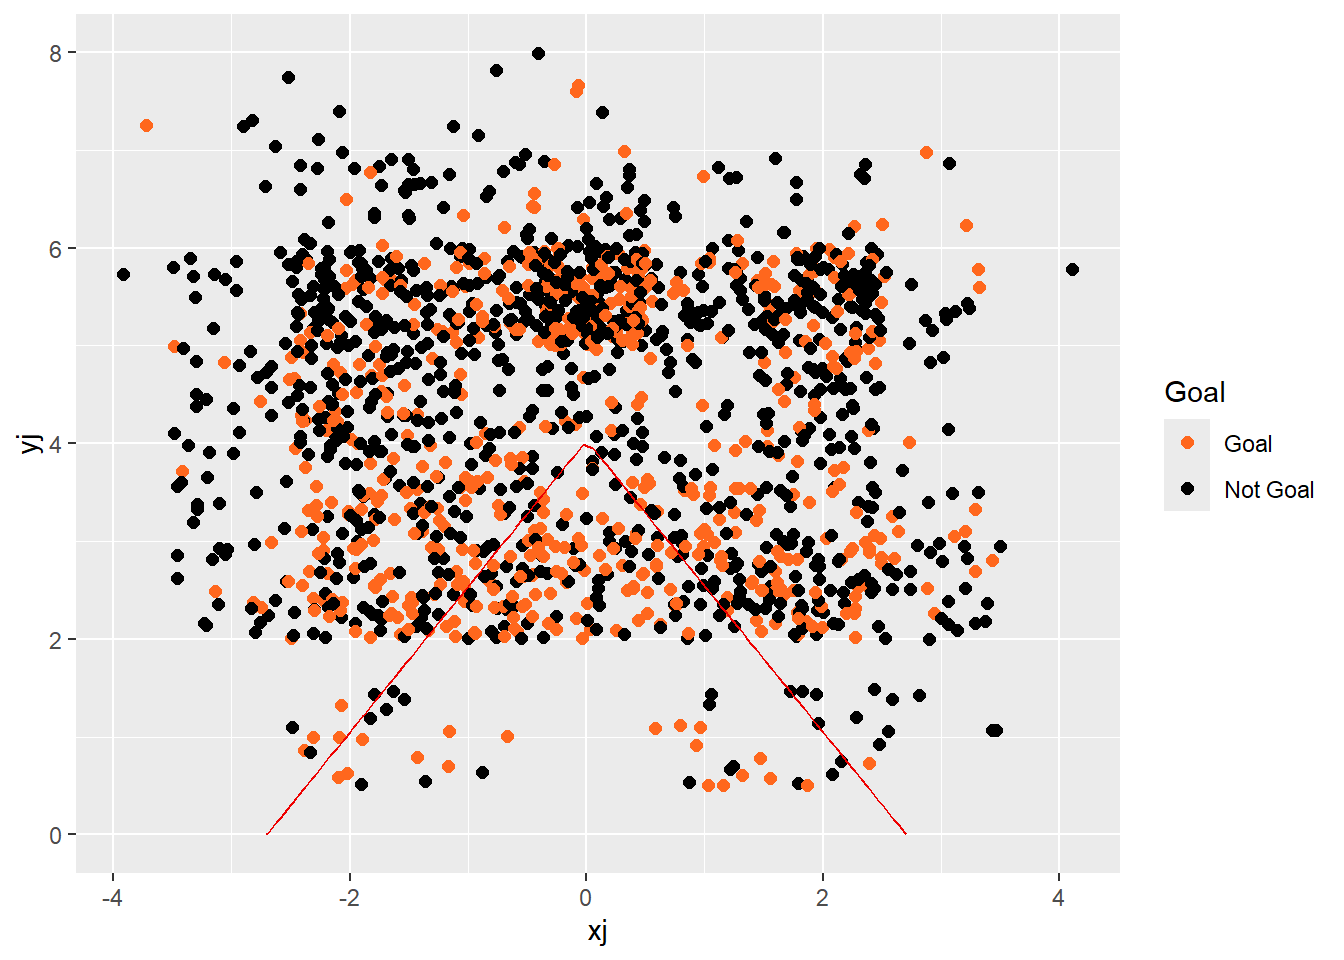
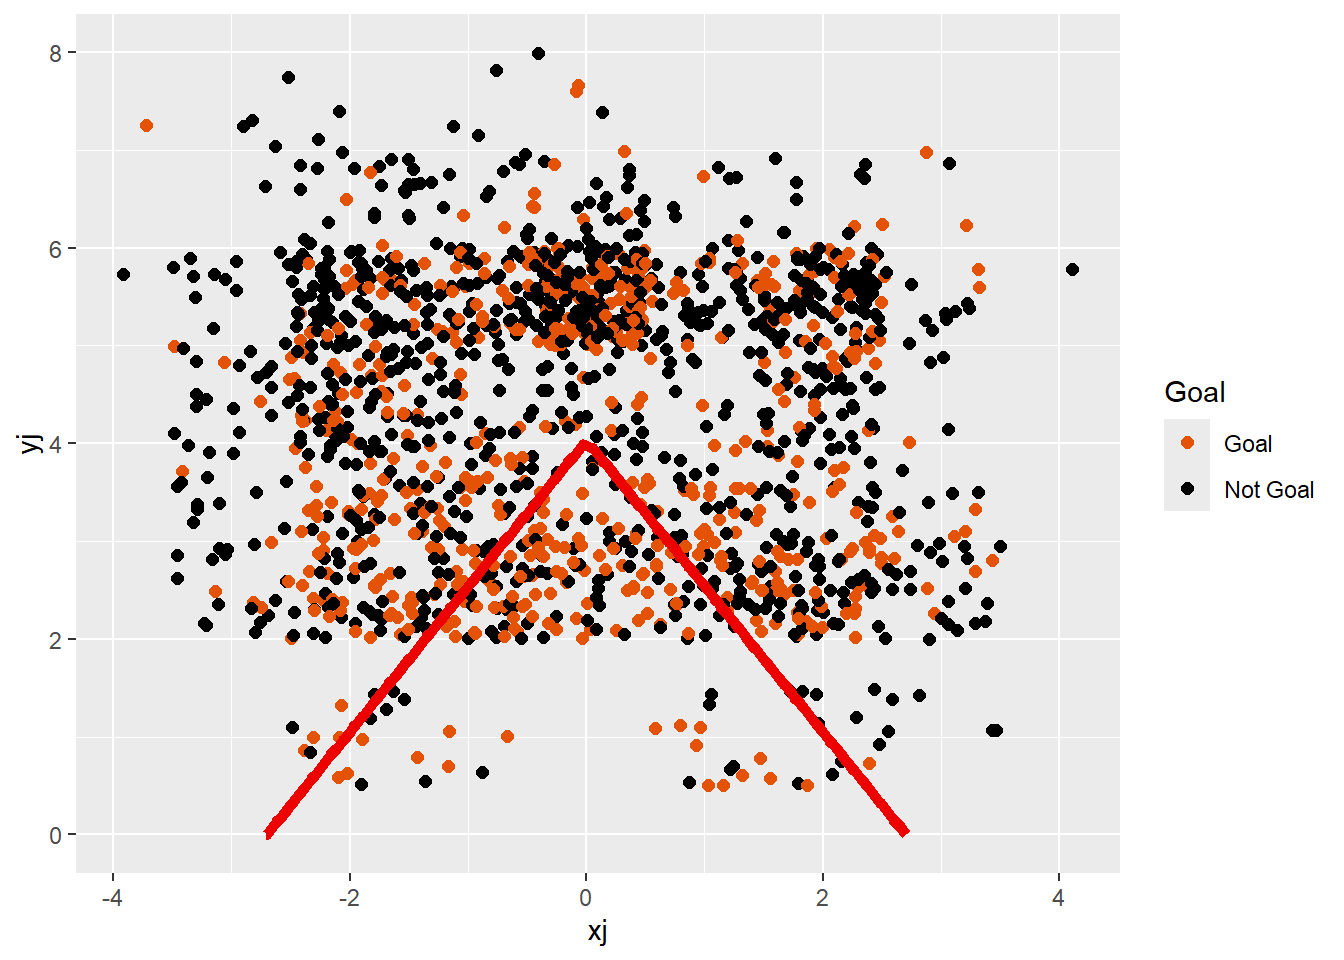
Add Module 3

diff --git a/docs/module-03/notes2.html b/docs/module-03/notes2.html
@@ -383,7 +383,7 @@ p(X_1) = 1/(1+e^{-(\beta_0 + \beta_1 X_1)})
 <span id="cb6-28"><a href="#cb6-28" aria-hidden="true" tabindex="-1"></a><span class="co"># Run the Shiny app</span></span>
 <span id="cb6-29"><a href="#cb6-29" aria-hidden="true" tabindex="-1"></a><span class="fu">shinyApp</span>(<span class="at">ui =</span> ui, <span class="at">server =</span> server)</span></code><button title="Copy to Clipboard" class="code-copy-button"><i class="bi"></i></button></pre></div>
 <div class="cell-output-display">
-<p><iframe data-deferred-src="app2b920a3c318276f1dca6772901945a74/?w=&amp;__subapp__=1" width="100%" height="400" class="shiny-frame shiny-frame-deferred"></iframe></p>
+<p><iframe data-deferred-src="app75926b1494fde8e29727ecb6f442e156/?w=&amp;__subapp__=1" width="100%" height="400" class="shiny-frame shiny-frame-deferred"></iframe></p>
 </div>
 </div>
 <p>You can play around with different values of <span class="math inline">\(\beta_0, \beta_1\)</span> to get some ideas about what is going on. Try to answer the following based on this application:</p>
@@ -478,7 +478,7 @@ p(X) = h(\beta_0 +\beta_1 X_1 + \beta_2 X_2)
 \]</span> with <span class="math inline">\(X_1=xj\)</span> and <span class="math inline">\(X_2=yj\)</span>. If we want to predict the probability of making a shot from position (2,4), we would plug in <span class="math inline">\(X_1= 2\)</span> and <span class="math inline">\(X_2=4\)</span> into the right hand side of this equation:</p>
 <div class="cell">
 <div class="sourceCode cell-code" id="cb10"><pre class="sourceCode r code-with-copy"><code class="sourceCode r"><span id="cb10-1"><a href="#cb10-1" aria-hidden="true" tabindex="-1"></a>bx<span class="ot">=</span><span class="fu">coef</span>(goal_glm)[<span class="dv">1</span>] <span class="sc">+</span><span class="fu">coef</span>(goal_glm)[<span class="dv">2</span>]<span class="sc">*</span><span class="dv">2</span> <span class="sc">+</span> <span class="fu">coef</span>(goal_glm)[<span class="dv">3</span>]<span class="sc">*</span><span class="dv">4</span></span>
-<span id="cb10-2"><a href="#cb10-2" aria-hidden="true" tabindex="-1"></a><span class="fu">exp</span>(bx)<span class="sc">/</span>(<span class="dv">1</span><span class="sc">+</span><span class="fu">exp</span>(bx))</span></code><button title="Copy to Clipboard" class="code-copy-button"><i class="bi"></i></button></pre></div>
+<span id="cb10-2"><a href="#cb10-2" aria-hidden="true" tabindex="-1"></a><span class="dv">1</span><span class="sc">/</span>(<span class="dv">1</span><span class="sc">+</span><span class="fu">exp</span>(<span class="sc">-</span>bx))</span></code><button title="Copy to Clipboard" class="code-copy-button"><i class="bi"></i></button></pre></div>
 <div class="cell-output cell-output-stdout">
 <pre><code>(Intercept) 
   0.3832721 </code></pre>
@@ -495,7 +495,7 @@ p(X) = h(\beta_0 +\beta_1 X_1 + \beta_2 X_2)
 <p>Now, in terms of interpreting the coefficients, remember that the model is linear in log-odds: <span class="math display">\[
 \log(p(X)/(1-p(X))) = \beta_0 + \beta_1X_1 + \beta_2 X_2
 \]</span></p>
-<p>In a normal linear equation, a change of <span class="math inline">\(\Delta x\)</span> to <span class="math inline">\(x\)</span> means that the outcome variable changes by <span class="math inline">\(m\Delta x\)</span> where <span class="math inline">\(m\)</span> is the slope. Now a change <span class="math inline">\(\Delta x\)</span> in one of the predictors <span class="math inline">\(X_i\)</span>, while holding the others constant, means that the log-odds of “success” go up by <span class="math inline">\(\hat{\beta}_i \Delta x\)</span> so the odds increase by a multiplicative factor <span class="math inline">\(e^{\hat{\beta}_i \Delta x}\)</span>. For example, if we keep our horizontal position constant, but move one meter closer to the goal (change in <span class="math inline">\(yj\)</span> of <span class="math inline">\(-1\)</span>), then the odds get multiplied by</p>
+<p>In a simple linear equation, a change of <span class="math inline">\(\Delta x\)</span> to <span class="math inline">\(x\)</span> means that the outcome variable changes by <span class="math inline">\(m\Delta x\)</span> where <span class="math inline">\(m\)</span> is the slope. Now a change <span class="math inline">\(\Delta x\)</span> in one of the predictors <span class="math inline">\(X_i\)</span>, while holding the others constant, means that the log-odds of “success” goes up by <span class="math inline">\(\hat{\beta}_i \Delta x\)</span> so the odds increase by a multiplicative factor <span class="math inline">\(e^{\hat{\beta}_i \Delta x}\)</span>. For example, if we keep our horizontal position constant, but move one meter closer to the goal (change in <span class="math inline">\(yj\)</span> of <span class="math inline">\(-1\)</span>), then the odds get multiplied by</p>
 <div class="cell">
 <div class="sourceCode cell-code" id="cb14"><pre class="sourceCode r code-with-copy"><code class="sourceCode r"><span id="cb14-1"><a href="#cb14-1" aria-hidden="true" tabindex="-1"></a><span class="fu">exp</span>(<span class="fu">coef</span>(goal_glm)[<span class="dv">3</span>]<span class="sc">*</span>(<span class="sc">-</span><span class="dv">1</span>))</span></code><button title="Copy to Clipboard" class="code-copy-button"><i class="bi"></i></button></pre></div>
 <div class="cell-output cell-output-stdout">
@@ -515,7 +515,7 @@ p(X) = h(\beta_0 +\beta_1 X_1 + \beta_2 X_2)
 </div>
 </div>
 <p>Note that odds changes are negative if you move further away.</p>
-<p>One more comment before we wrap this up. The last column of the summary table once again gives the p-values for tests of nonzero coefficients:</p>
+<p>One more comment before we wrap this up. The last column of the summary table again gives the p-values for tests of nonzero coefficients:</p>
 <div class="cell">
 <div class="sourceCode cell-code" id="cb17"><pre class="sourceCode r code-with-copy"><code class="sourceCode r"><span id="cb17-1"><a href="#cb17-1" aria-hidden="true" tabindex="-1"></a><span class="fu">summary</span>(goal_glm)</span></code><button title="Copy to Clipboard" class="code-copy-button"><i class="bi"></i></button></pre></div>
 <div class="cell-output cell-output-stdout">
@@ -542,13 +542,12 @@ Number of Fisher Scoring iterations: 4</code></pre>
 </div>
 <p>In our example, the intercept and <span class="math inline">\(y\)</span> distance were significant, but the <span class="math inline">\(x\)</span> distance was not. That is probably because <span class="math inline">\(x\)</span> is not distance, but rather horizontal position. Instead, we should fit the model with <span class="math inline">\(|xj|\)</span>:</p>
 <div class="cell">
-<div class="sourceCode cell-code" id="cb19"><pre class="sourceCode r code-with-copy"><code class="sourceCode r"><span id="cb19-1"><a href="#cb19-1" aria-hidden="true" tabindex="-1"></a>goal_glm<span class="ot">=</span><span class="fu">glm</span>(Goal<span class="sc">==</span><span class="st">"Goal"</span><span class="sc">~</span><span class="fu">abs</span>(xj)<span class="sc">+</span>yj,<span class="at">family=</span><span class="st">"binomial"</span>,<span class="at">data=</span>shots)</span>
+<div class="sourceCode cell-code" id="cb19"><pre class="sourceCode r code-with-copy"><code class="sourceCode r"><span id="cb19-1"><a href="#cb19-1" aria-hidden="true" tabindex="-1"></a>goal_glm<span class="ot">=</span><span class="fu">glm</span>(Goal_1<span class="sc">~</span><span class="fu">abs</span>(xj)<span class="sc">+</span>yj,<span class="at">family=</span><span class="st">"binomial"</span>,<span class="at">data=</span>shots)</span>
 <span id="cb19-2"><a href="#cb19-2" aria-hidden="true" tabindex="-1"></a><span class="fu">summary</span>(goal_glm)</span></code><button title="Copy to Clipboard" class="code-copy-button"><i class="bi"></i></button></pre></div>
 <div class="cell-output cell-output-stdout">
 <pre><code>
 Call:
-glm(formula = Goal == "Goal" ~ abs(xj) + yj, family = "binomial", 
-    data = shots)
+glm(formula = Goal_1 ~ abs(xj) + yj, family = "binomial", data = shots)
 
 Coefficients:
             Estimate Std. Error z value Pr(&gt;|z|)    
@@ -595,11 +594,13 @@ P(Goal|(x,y)) &gt; 0.5
 <span id="cb21-17"><a href="#cb21-17" aria-hidden="true" tabindex="-1"></a>grid<span class="sc">$</span>prediction <span class="ot">=</span> <span class="fu">ifelse</span>(grid<span class="sc">$</span>prob <span class="sc">&gt;</span> <span class="fl">0.5</span>, <span class="dv">1</span>, <span class="dv">0</span>)</span>
 <span id="cb21-18"><a href="#cb21-18" aria-hidden="true" tabindex="-1"></a></span>
 <span id="cb21-19"><a href="#cb21-19" aria-hidden="true" tabindex="-1"></a><span class="co"># Plot the decision boundary with the actual data</span></span>
-<span id="cb21-20"><a href="#cb21-20" aria-hidden="true" tabindex="-1"></a><span class="fu">ggplot</span>(shots, <span class="fu">aes</span>(<span class="at">x =</span> xj, <span class="at">y =</span> yj, <span class="at">color =</span> Goal)) <span class="sc">+</span></span>
-<span id="cb21-21"><a href="#cb21-21" aria-hidden="true" tabindex="-1"></a>  <span class="fu">geom_point</span>(<span class="at">size =</span> <span class="dv">2</span>) <span class="sc">+</span>  </span>
-<span id="cb21-22"><a href="#cb21-22" aria-hidden="true" tabindex="-1"></a>  <span class="fu">geom_contour</span>(<span class="at">data =</span> grid, <span class="fu">aes</span>(<span class="at">z =</span> prob), <span class="at">breaks =</span> <span class="fl">0.5</span>, <span class="at">color =</span> <span class="st">"red2"</span>) <span class="sc">+</span>  <span class="co"># Decision boundary</span></span>
-<span id="cb21-23"><a href="#cb21-23" aria-hidden="true" tabindex="-1"></a>  <span class="fu">labs</span>(<span class="at">color =</span> <span class="st">"Goal"</span>) <span class="sc">+</span></span>
-<span id="cb21-24"><a href="#cb21-24" aria-hidden="true" tabindex="-1"></a>  <span class="fu">scale_color_manual</span>(<span class="at">values=</span><span class="fu">c</span>(<span class="st">"#FF671D"</span>,<span class="st">"black"</span>))</span></code><button title="Copy to Clipboard" class="code-copy-button"><i class="bi"></i></button></pre></div>
+<span id="cb21-20"><a href="#cb21-20" aria-hidden="true" tabindex="-1"></a>shots <span class="sc">|&gt;</span></span>
+<span id="cb21-21"><a href="#cb21-21" aria-hidden="true" tabindex="-1"></a>  <span class="fu">ggplot</span>(<span class="fu">aes</span>(<span class="at">x =</span> xj, <span class="at">y =</span> yj, <span class="at">color =</span> Goal)) <span class="sc">+</span></span>
+<span id="cb21-22"><a href="#cb21-22" aria-hidden="true" tabindex="-1"></a>  <span class="fu">geom_point</span>(<span class="at">size =</span> <span class="dv">2</span>) <span class="sc">+</span>  </span>
+<span id="cb21-23"><a href="#cb21-23" aria-hidden="true" tabindex="-1"></a>  <span class="fu">geom_contour</span>(<span class="at">data =</span> grid, <span class="fu">aes</span>(<span class="at">z =</span> prob), </span>
+<span id="cb21-24"><a href="#cb21-24" aria-hidden="true" tabindex="-1"></a>               <span class="at">breaks =</span> <span class="fl">0.5</span>, <span class="at">color =</span> <span class="st">"red2"</span>,<span class="at">linewidth=</span><span class="dv">2</span>) <span class="sc">+</span>  <span class="co"># Decision boundary</span></span>
+<span id="cb21-25"><a href="#cb21-25" aria-hidden="true" tabindex="-1"></a>  <span class="fu">labs</span>(<span class="at">color =</span> <span class="st">"Goal"</span>) <span class="sc">+</span></span>
+<span id="cb21-26"><a href="#cb21-26" aria-hidden="true" tabindex="-1"></a>  <span class="fu">scale_color_manual</span>(<span class="at">values=</span><span class="fu">c</span>(<span class="st">"#e35205"</span>,<span class="st">"black"</span>))</span></code><button title="Copy to Clipboard" class="code-copy-button"><i class="bi"></i></button></pre></div>
 <div class="cell-output-display">
 <div>
 <figure class="figure">
@@ -610,8 +611,10 @@ P(Goal|(x,y)) &gt; 0.5
 </div>
 <p>We could also visualize this as in the last notes with a color grid</p>
 <div class="cell">
-<div class="sourceCode cell-code" id="cb22"><pre class="sourceCode r code-with-copy"><code class="sourceCode r"><span id="cb22-1"><a href="#cb22-1" aria-hidden="true" tabindex="-1"></a>  grid <span class="sc">%&gt;%</span> <span class="fu">ggplot</span>(<span class="fu">aes</span>(<span class="at">x=</span>xj,<span class="at">y=</span>yj,<span class="at">col=</span><span class="fu">as.factor</span>(prediction)))<span class="sc">+</span><span class="fu">geom_point</span>(<span class="at">size=</span><span class="dv">3</span>)<span class="sc">+</span></span>
-<span id="cb22-2"><a href="#cb22-2" aria-hidden="true" tabindex="-1"></a>  <span class="fu">scale_color_manual</span>(<span class="at">name=</span><span class="st">"Goal"</span>,<span class="at">values=</span><span class="fu">c</span>(<span class="st">"black"</span>,<span class="st">"#FF671D"</span>))</span></code><button title="Copy to Clipboard" class="code-copy-button"><i class="bi"></i></button></pre></div>
+<div class="sourceCode cell-code" id="cb22"><pre class="sourceCode r code-with-copy"><code class="sourceCode r"><span id="cb22-1"><a href="#cb22-1" aria-hidden="true" tabindex="-1"></a>  grid <span class="sc">|&gt;</span></span>
+<span id="cb22-2"><a href="#cb22-2" aria-hidden="true" tabindex="-1"></a>  <span class="fu">ggplot</span>(<span class="fu">aes</span>(<span class="at">x=</span>xj,<span class="at">y=</span>yj,<span class="at">col=</span><span class="fu">as.factor</span>(prediction)))<span class="sc">+</span></span>
+<span id="cb22-3"><a href="#cb22-3" aria-hidden="true" tabindex="-1"></a>  <span class="fu">geom_point</span>(<span class="at">size=</span><span class="dv">3</span>)<span class="sc">+</span></span>
+<span id="cb22-4"><a href="#cb22-4" aria-hidden="true" tabindex="-1"></a>  <span class="fu">scale_color_manual</span>(<span class="at">name=</span><span class="st">"Goal"</span>,<span class="at">values=</span><span class="fu">c</span>(<span class="st">"black"</span>,<span class="st">"#e35205"</span>))</span></code><button title="Copy to Clipboard" class="code-copy-button"><i class="bi"></i></button></pre></div>
 <div class="cell-output-display">
 <div>
 <figure class="figure">
@@ -624,17 +627,19 @@ P(Goal|(x,y)) &gt; 0.5
 <div class="cell">
 <div class="sourceCode cell-code" id="cb23"><pre class="sourceCode r code-with-copy"><code class="sourceCode r"><span id="cb23-1"><a href="#cb23-1" aria-hidden="true" tabindex="-1"></a>n<span class="ot">=</span><span class="fu">nrow</span>(shots)</span>
 <span id="cb23-2"><a href="#cb23-2" aria-hidden="true" tabindex="-1"></a>s<span class="ot">=</span><span class="fu">sample</span>(n,<span class="fu">round</span>(.<span class="dv">7</span><span class="sc">*</span>n,<span class="dv">0</span>))</span>
-<span id="cb23-3"><a href="#cb23-3" aria-hidden="true" tabindex="-1"></a>train<span class="ot">=</span>shots[s,]</span>
-<span id="cb23-4"><a href="#cb23-4" aria-hidden="true" tabindex="-1"></a>test<span class="ot">=</span>shots[<span class="sc">-</span>s,]</span>
-<span id="cb23-5"><a href="#cb23-5" aria-hidden="true" tabindex="-1"></a>goal_train<span class="ot">=</span><span class="fu">glm</span>(Goal<span class="sc">==</span><span class="st">"Goal"</span><span class="sc">~</span><span class="fu">abs</span>(xj)<span class="sc">+</span>yj,<span class="at">family=</span><span class="st">"binomial"</span>,<span class="at">data=</span>train)</span>
-<span id="cb23-6"><a href="#cb23-6" aria-hidden="true" tabindex="-1"></a>test<span class="sc">$</span>prob <span class="ot">=</span> <span class="fu">predict</span>(goal_train, </span>
-<span id="cb23-7"><a href="#cb23-7" aria-hidden="true" tabindex="-1"></a>                    <span class="at">newdata =</span> test, </span>
+<span id="cb23-3"><a href="#cb23-3" aria-hidden="true" tabindex="-1"></a>train_set<span class="ot">=</span>shots[s,]</span>
+<span id="cb23-4"><a href="#cb23-4" aria-hidden="true" tabindex="-1"></a>test_set<span class="ot">=</span>shots[<span class="sc">-</span>s,]</span>
+<span id="cb23-5"><a href="#cb23-5" aria-hidden="true" tabindex="-1"></a>goal_train<span class="ot">=</span><span class="fu">glm</span>(Goal_1<span class="sc">~</span><span class="fu">abs</span>(xj)<span class="sc">+</span>yj,<span class="at">family=</span><span class="st">"binomial"</span>,<span class="at">data=</span>train_set)</span>
+<span id="cb23-6"><a href="#cb23-6" aria-hidden="true" tabindex="-1"></a>test_set<span class="sc">$</span>prob <span class="ot">=</span> <span class="fu">predict</span>(goal_train, </span>
+<span id="cb23-7"><a href="#cb23-7" aria-hidden="true" tabindex="-1"></a>                    <span class="at">newdata =</span> test_set, </span>
 <span id="cb23-8"><a href="#cb23-8" aria-hidden="true" tabindex="-1"></a>                    <span class="at">type =</span> <span class="st">"response"</span>)</span>
-<span id="cb23-9"><a href="#cb23-9" aria-hidden="true" tabindex="-1"></a>test<span class="sc">$</span>prediction <span class="ot">=</span> <span class="fu">ifelse</span>(test<span class="sc">$</span>prob <span class="sc">&gt;</span> <span class="fl">0.5</span>, <span class="st">"Goal"</span>, <span class="st">"Not Goal"</span>)</span>
-<span id="cb23-10"><a href="#cb23-10" aria-hidden="true" tabindex="-1"></a>er_logistic<span class="ot">=</span><span class="fu">sum</span>(test<span class="sc">$</span>prediction<span class="sc">!=</span>test<span class="sc">$</span>Goal)<span class="sc">/</span><span class="fu">length</span>(test<span class="sc">$</span>Goal)</span>
-<span id="cb23-11"><a href="#cb23-11" aria-hidden="true" tabindex="-1"></a>er_logistic</span></code><button title="Copy to Clipboard" class="code-copy-button"><i class="bi"></i></button></pre></div>
+<span id="cb23-9"><a href="#cb23-9" aria-hidden="true" tabindex="-1"></a>test_set<span class="sc">$</span>prediction <span class="ot">=</span> <span class="fu">ifelse</span>(test_set<span class="sc">$</span>prob <span class="sc">&gt;</span> <span class="fl">0.5</span>, </span>
+<span id="cb23-10"><a href="#cb23-10" aria-hidden="true" tabindex="-1"></a>                             <span class="st">"Goal"</span>, </span>
+<span id="cb23-11"><a href="#cb23-11" aria-hidden="true" tabindex="-1"></a>                             <span class="st">"Not Goal"</span>)</span>
+<span id="cb23-12"><a href="#cb23-12" aria-hidden="true" tabindex="-1"></a>er_logistic<span class="ot">=</span><span class="fu">sum</span>(test_set<span class="sc">$</span>prediction<span class="sc">!=</span>test_set<span class="sc">$</span>Goal)<span class="sc">/</span><span class="fu">length</span>(test_set<span class="sc">$</span>Goal)</span>
+<span id="cb23-13"><a href="#cb23-13" aria-hidden="true" tabindex="-1"></a>er_logistic</span></code><button title="Copy to Clipboard" class="code-copy-button"><i class="bi"></i></button></pre></div>
 <div class="cell-output cell-output-stdout">
-<pre><code>[1] 0.3962656</code></pre>
+<pre><code>[1] 0.3630705</code></pre>
 </div>
 </div>
 <p>For those of you who did the last group work, this should be close to the best knn model error rates you got.</p>
@@ -647,17 +652,20 @@ P(Goal|(x,y)) &gt; 0.5
 <li>The exponentiated coefficients tell us changes in the log-odds of success when the corresponding variable is changed.</li>
 <li>A logistic model can reveal some important information about the relationships between our predictors and the outcome.</li>
 </ul>
-<p>But there is one kind of strange issue here which is the use of 0.5 as a cutoff for class predictions. Since the classes Goal and Not Goal are imbalanced with roughly twice as many of the latter, could we actually do better by using a different cutoff? Furthermore, we haven’t look at the types of misclassifications. If we actually create a two-way table of predictions vs realtiy for our Goals:</p>
+<p>But there is one kind of strange issue here which is the use of 0.5 as a cutoff for class predictions. Since the classes Goal and Not Goal are imbalanced with roughly twice as many of the latter, could we actually do better by using a different cutoff? Furthermore, we haven’t look at the types of misclassifications. If we actually create a two-way table of predictions vs reality for our Goals:</p>
 <div class="cell">
-<div class="sourceCode cell-code" id="cb25"><pre class="sourceCode r code-with-copy"><code class="sourceCode r"><span id="cb25-1"><a href="#cb25-1" aria-hidden="true" tabindex="-1"></a><span class="fu">table</span>(test<span class="sc">$</span>prediction,test<span class="sc">$</span>Goal)</span></code><button title="Copy to Clipboard" class="code-copy-button"><i class="bi"></i></button></pre></div>
+<div class="sourceCode cell-code" id="cb25"><pre class="sourceCode r code-with-copy"><code class="sourceCode r"><span id="cb25-1"><a href="#cb25-1" aria-hidden="true" tabindex="-1"></a><span class="fu">table</span>(test_set<span class="sc">$</span>prediction,test_set<span class="sc">$</span>Goal)</span></code><button title="Copy to Clipboard" class="code-copy-button"><i class="bi"></i></button></pre></div>
 <div class="cell-output cell-output-stdout">
 <pre><code>          
            Goal Not Goal
-  Goal       24       15
-  Not Goal  176      267</code></pre>
+  Goal       36       30
+  Not Goal  145      271</code></pre>
 </div>
 </div>
 <p>we see that there are two types of errors: predicting goal for not goal and predicting not goal for goal.The second type of error is happening much more frequently. Is this desirable? Next notes we’ll talk about these two way confusion matrices in more detail and some other metrics one can use to talk about to assess the value of a classification scheme. We’ll also discuss incorporating qualitative predictors into our models and how we compare our logistic model with the “null”. Until then, love the ones you’re with.</p>
+</section>
+<section id="practice" class="level2">
+<h2 class="anchored" data-anchor-id="practice">Practice</h2>
 
 
 </section>

diff --git a/docs/modules.html b/docs/modules.html
@@ -491,7 +491,7 @@ The womenShots.csv dataset contains positional and situational data on a collect
 </div>
 </a>
 </div>
-<div class="g-col-1" data-index="14" data-listing-file-modified-sort="1778284663313" data-listing-reading-time-sort="13" data-listing-word-count-sort="2459">
+<div class="g-col-1" data-index="14" data-listing-file-modified-sort="1778285309658" data-listing-reading-time-sort="13" data-listing-word-count-sort="2537">
 <a href="./module-03/notes2.html" class="quarto-grid-link">
 <div class="quarto-grid-item card h-100 card-left">
 <div class="card-body post-contents">
